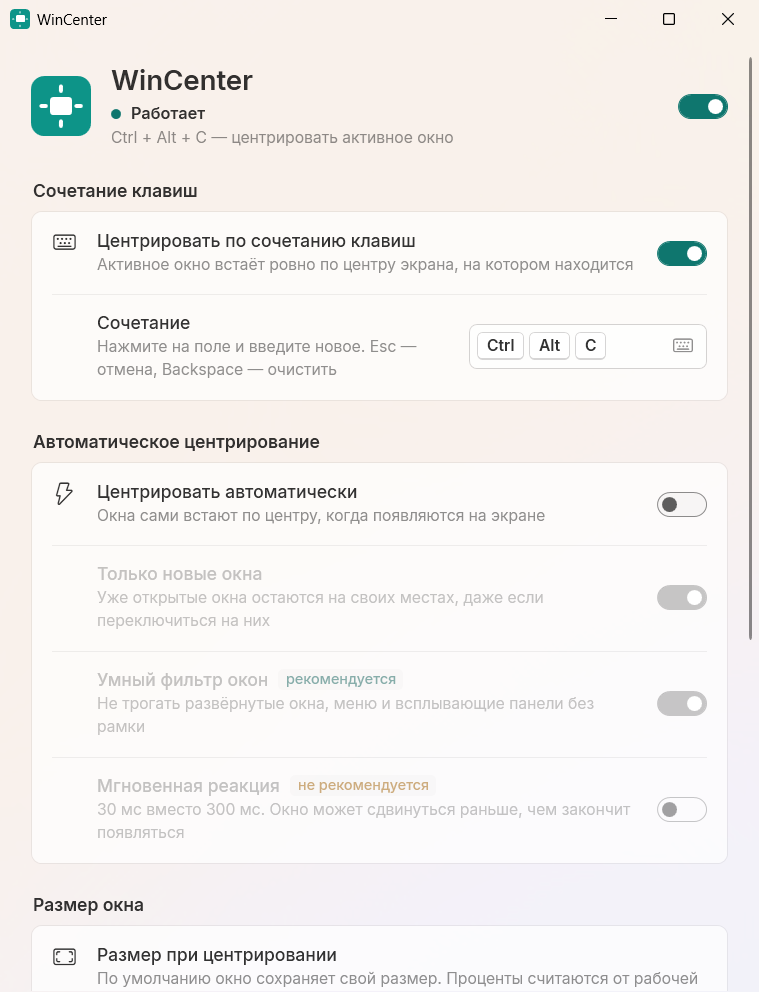
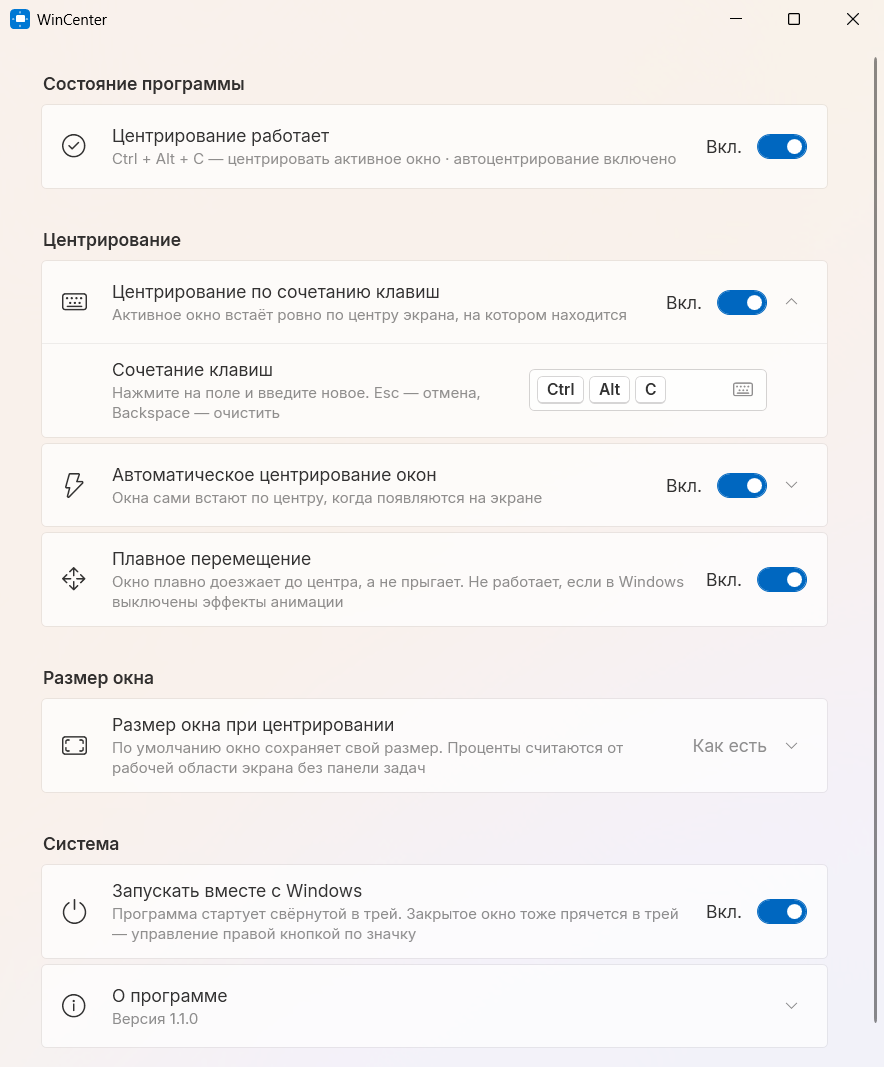
Версия 1.1.0
- Номер версии 1.1.0
- Окно настроек по умолчанию чуть выше, чтобы страница помещалась целиком, но не выше рабочей области экрана
- README: исключения, плавное перемещение, проверка обновлений, новый снимок настроек

diff --git a/MainWindow.xaml b/MainWindow.xaml
@@ -4,7 +4,7 @@
         xmlns:controls="clr-namespace:WinCenter.Controls"
         Title="WinCenter"
         Icon="pack://application:,,,/Assets/app.ico"
-        Width="720" Height="820" MinWidth="520" MinHeight="480"
+        Width="720" Height="860" MinWidth="520" MinHeight="480"
         WindowStartupLocation="CenterScreen"
         FontFamily="{StaticResource AppFontFamily}"
         FontSize="14"

diff --git a/MainWindow.xaml.cs b/MainWindow.xaml.cs
@@ -13,6 +13,8 @@ public partial class MainWindow : Window
     {
         InitializeComponent();
         DataContext = _vm = viewModel;
+        // The default height shows the whole page, but must not run past a small screen.
+        Height = Math.Max(MinHeight, Math.Min(Height, SystemParameters.WorkArea.Height - 32));
     }
 
     // Programs with open windows are offered first, like the "Add an app" pickers in Windows Settings.

diff --git a/README.md b/README.md
@@ -8,10 +8,12 @@
 
 - **Ctrl + Alt + C** — активное окно встаёт по центру экрана, на котором находится. Сочетание можно поменять на любое
 - Автоматическое центрирование: новые окна сами встают по центру, а уже открытые остаются на своих местах
+- Исключения: программы, которые автоматическое центрирование не трогает
 - Умный фильтр не трогает развёрнутые окна, меню и всплывающие панели
+- Окно плавно доезжает до центра, а не прыгает
 - При центрировании может задать окну ширину и высоту в процентах от экрана
-- Живёт в трее: пауза, центрирование активного окна и настройки — правой кнопкой по значку
-- Запуск вместе с Windows, настройки в стиле Windows 11 со светлой и тёмной темой
+- Живёт в трее: пауза, центрирование последнего окна и настройки — правой кнопкой по значку
+- Запуск вместе с Windows, проверка обновлений, настройки в стиле Windows 11 со светлой и тёмной темой
 
 ## Как запустить
 
@@ -29,6 +31,8 @@ dotnet publish -c Release -o dist
 
 - В сочетании нужна хотя бы одна клавиша-модификатор (Ctrl, Alt, Shift или Win). Без неё можно назначить только F1–F24.
 - Если сочетание уже занято другой программой, настройки подскажут выбрать другое.
+- Исключения действуют только на автоматическое центрирование: сочетание клавиш и меню в трее центрируют окно любой программы.
+- Раз в сутки программа спрашивает у GitHub, вышла ли новая версия, и показывает ссылку на неё. Сама она ничего не скачивает; проверку можно выключить в блоке «О программе».
 - Настройки лежат в `settings.json` рядом с программой, а если туда нельзя писать — в `%APPDATA%\WinCenter`.
 - Ошибки записываются в `%LOCALAPPDATA%\WinCenter\error.log`.
 
